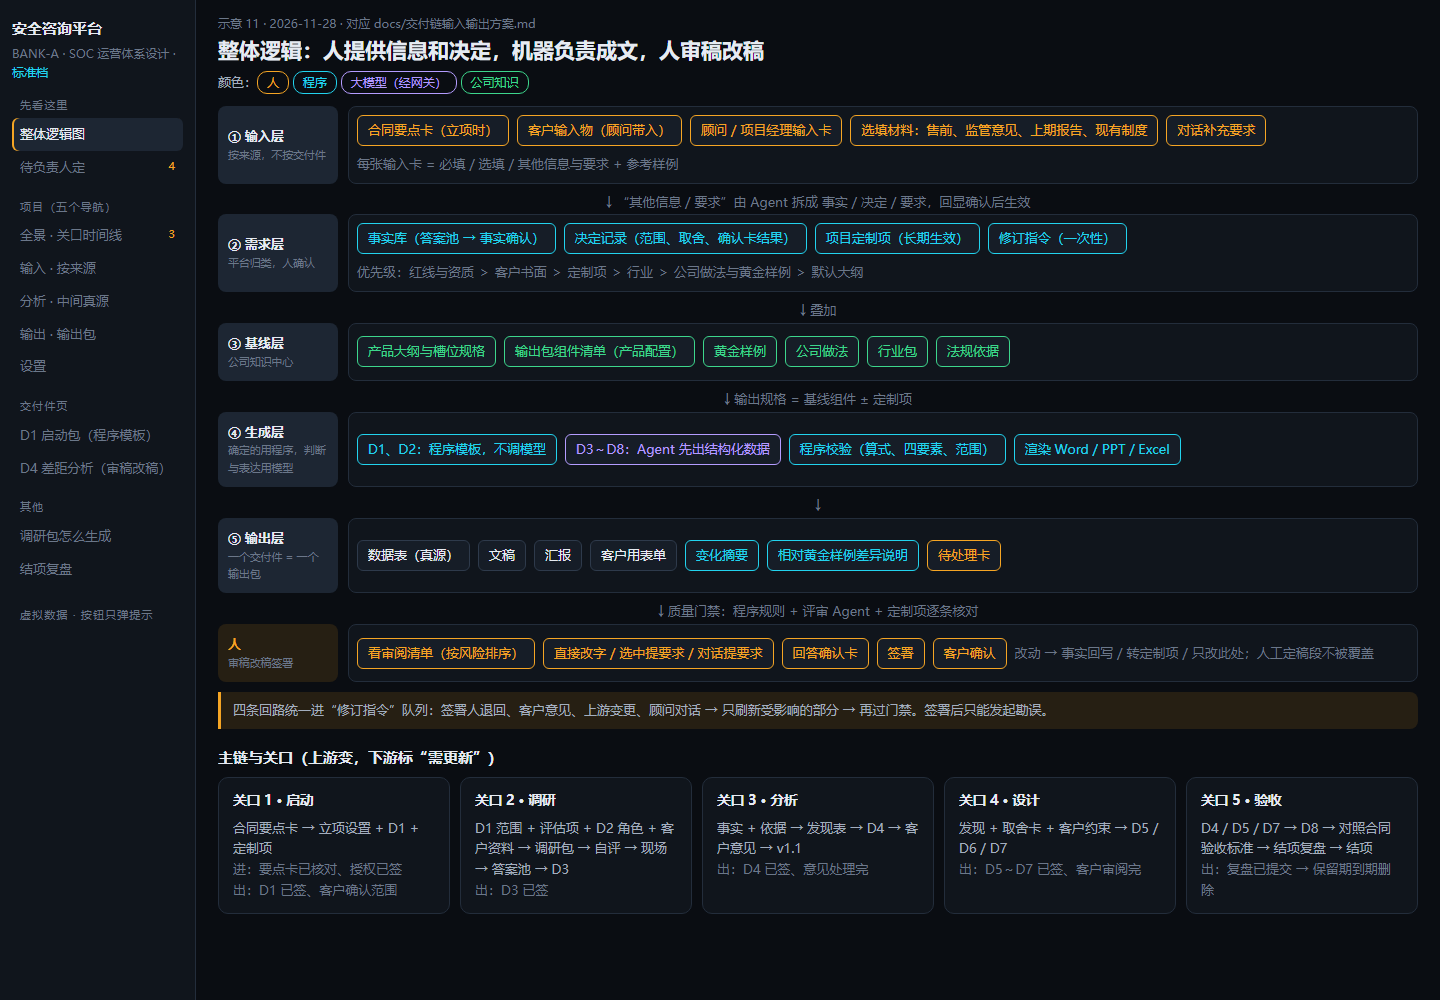
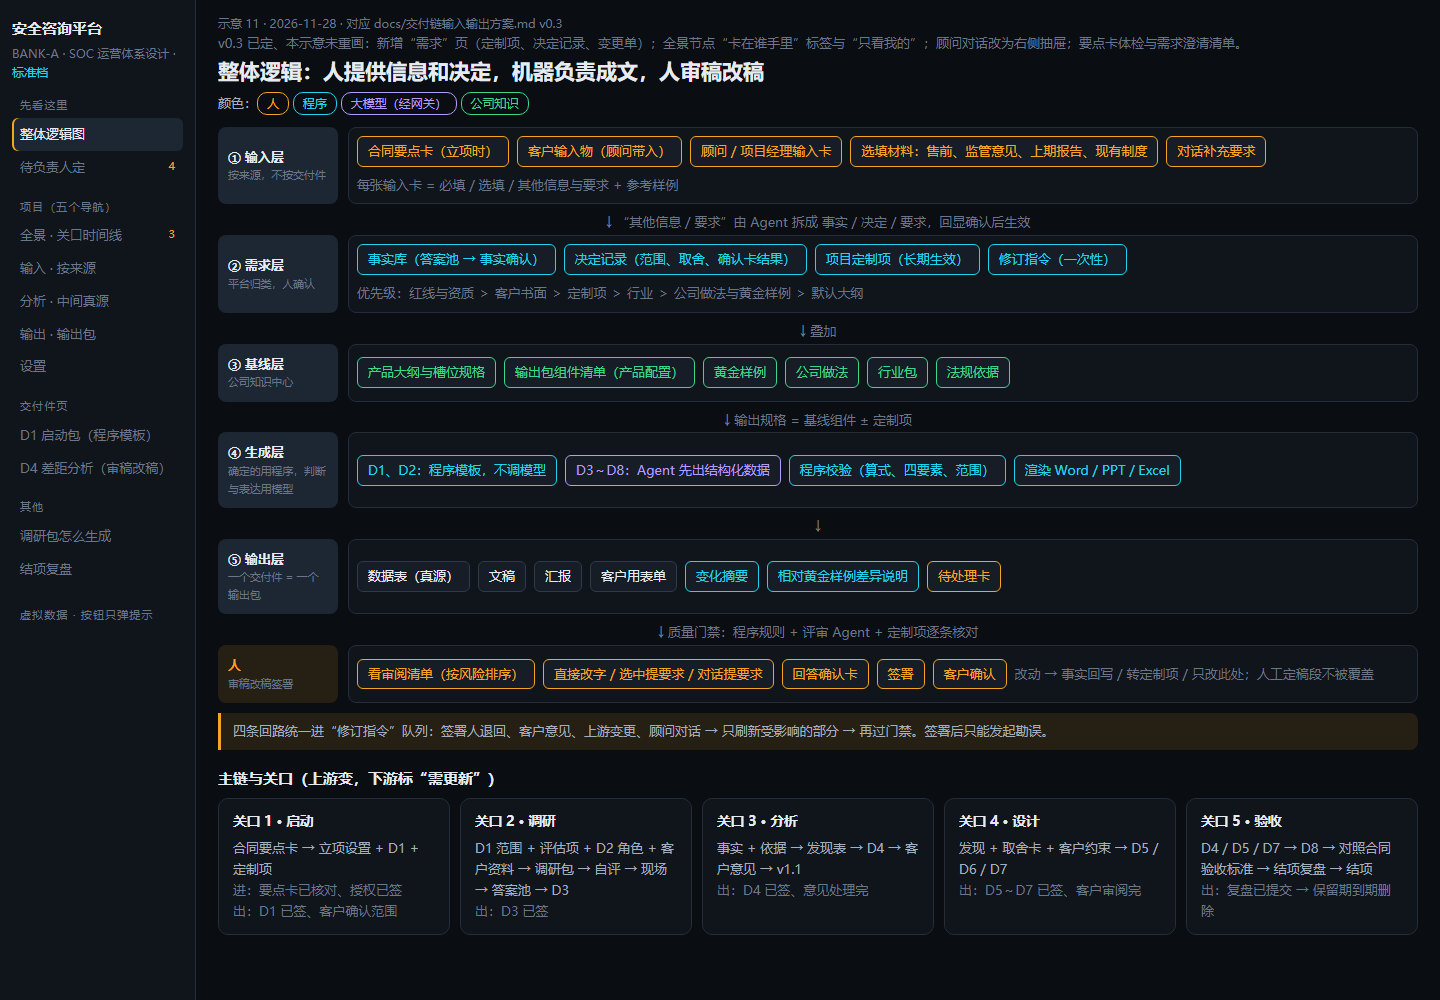
四期 设计：交付链输入输出方案 v0.3（第一轮审视十条写入正文）
负责人 11-28 对第一轮审视回复“同意”：要点卡字段状态、体检、需求澄清清单与变更单；新增需求页；分析页内容与证据/依据叫法；全景角色标签；顾问入口收敛；导出与水印；结项两步提交；客户批注导入、签字凭证、暂停终止、人员变动、续签、严格档输出包。示意 11 补导出与结项两步。

Changed region(s): [[0.125, 0.031, 1.0, 0.93]]

diff --git a/design/screens/11-驾驶舱与交付件刷新示意.html b/design/screens/11-驾驶舱与交付件刷新示意.html
@@ -102,7 +102,7 @@ textarea.inp{min-height:54px;resize:vertical}
 
 <!-- ============ 整体逻辑图 ============ -->
 <div class="page on" id="p-arch">
-  <div class="crumb">示意 11 · 2026-11-28 · 对应 docs/交付链输入输出方案.md</div>
+  <div class="crumb">示意 11 · 2026-11-28 · 对应 docs/交付链输入输出方案.md v0.3</div><div class="mut">v0.3 已定、本示意未重画：新增“需求”页（定制项、决定记录、变更单）；全景节点“卡在谁手里”标签与“只看我的”；顾问对话改为右侧抽屉；要点卡体检与需求澄清清单。</div>
   <h1>整体逻辑：人提供信息和决定，机器负责成文，人审稿改稿</h1>
   <div class="sub">颜色：<span class="chip c-am">人</span> <span class="chip c-cy">程序</span> <span class="chip c-vi">大模型（经网关）</span> <span class="chip c-ok">公司知识</span></div>
 
@@ -272,7 +272,7 @@ textarea.inp{min-height:54px;resize:vertical}
 
 <!-- ============ 输出 ============ -->
 <div class="page" id="p-out">
-  <div class="crumb">BANK-A / 输出</div><h1>输出 · 每个交付件是一个输出包</h1>
+  <div class="crumb">BANK-A / 输出</div><h1>输出 · 每个交付件是一个输出包</h1><div class="row" style="margin:6px 0 10px"><a class="btn2" data-t="按阶段打包导出全部组件；未签署带“草稿”水印">阶段包一键导出</a></div>
   <div class="sub">组件清单取自产品配置（按黄金样例定默认），定制项可增减（增删须项目经理确认）。图例：<span class="cmp d">数据表</span> <span class="cmp w">文稿</span> <span class="cmp p">汇报</span> <span class="cmp x">客户用表单</span></div>
   <div class="g4">
     <div class="card"><div class="sb"><h3>D1 启动包</h3><span class="chip c-ok">已签</span></div><div class="mut">程序模板</div><div class="pk"><span class="cmp w">范围确认单</span><span class="cmp d">计划与里程碑</span><span class="cmp p">启动会 PPT</span><span class="cmp d">定制项清单</span><span class="cmp x">资料需求初单</span><span class="cmp d">前提与风险</span></div><div class="row" style="margin-top:8px"><a class="btn2 sm" data-go="d1">打开</a></div></div>
@@ -298,7 +298,7 @@ textarea.inp{min-height:54px;resize:vertical}
 
 <!-- ============ D1 ============ -->
 <div class="page" id="p-d1">
-  <div class="crumb">BANK-A / 输出 / D1 启动包</div><h1>D1 启动包 · 程序模板</h1>
+  <div class="crumb">BANK-A / 输出 / D1 启动包</div><h1>D1 启动包 · 程序模板</h1><div class="row" style="margin:6px 0 10px"><a class="btn2" data-t="下载 Word（未签署带“草稿”水印）">导出 Word</a><a class="btn2" data-t="下载 PPT（未签署带“草稿”水印）">导出 PPT</a><a class="btn2" data-t="下载 Excel（未签署带“草稿”水印）">导出 Excel</a></div>
   <div class="sub">内容相对确定，不调模型：输入卡 → 程序按模板成稿 → 门禁 → 项目经理签 → 客户确认。资质边界、数据保护段由程序写死。</div>
   <div class="g2">
     <div class="card"><h2>输入（项目经理）</h2>
@@ -321,7 +321,7 @@ textarea.inp{min-height:54px;resize:vertical}
 
 <!-- ============ D4 审稿改稿 ============ -->
 <div class="page" id="p-d4">
-  <div class="top"><div><div class="crumb">BANK-A / 输出 / D4 差距分析 · 第 2 版 · 评审与修订</div><h1>D4 差距分析报告</h1></div>
+  <div class="top"><div><div class="crumb">BANK-A / 输出 / D4 差距分析 · 第 2 版 · 评审与修订</div><h1>D4 差距分析报告</h1><div class="mut">D2、D3、D5～D8 与结项复盘的交付件页同此结构</div><div class="row" style="margin:6px 0 10px"><a class="btn2" data-t="下载 Word（未签署带“草稿”水印）">导出 Word</a><a class="btn2" data-t="下载 PPT（未签署带“草稿”水印）">导出 PPT</a><a class="btn2" data-t="下载 Excel（未签署带“草稿”水印）">导出 Excel</a></div></div>
     <div style="margin-left:auto" class="row"><span class="chip c-am">草稿 · 待顾问审核</span><span class="chip c-cy">标准档</span><a class="btn2 sm" data-t="本次变化摘要：上一版后事实 F-047 定案为 5×8，第 3.2 节、热力图同步更新；新增定制项“偏监管视角”影响 4 处">本次变化摘要</a><a class="btn2 sm" data-t="差异说明：相对黄金样例（城商行 SOC）增 1 节（监管检查意见对照，来自定制项）、删 0、第 4 章因客户无 SOAR 缩短">相对黄金样例差异</a></div></div>
   <div class="dl">
     <div class="card"><div class="sb"><h3>审阅清单 · 按风险排序</h3><span class="mono mut">7</span></div>
@@ -400,7 +400,7 @@ textarea.inp{min-height:54px;resize:vertical}
       <tr><td>☑</td><td>城商行夜间值班“先外包后自建”取舍写法</td><td>公司做法</td><td>客户一次通过，无意见</td></tr>
       <tr><td>☑</td><td>D5 第 2 章（目标运营模型）</td><td>黄金样例提名</td><td>修改率最低、评审 0 问题</td></tr>
       <tr><td>☐</td><td>定制项“增加监管检查意见对照一节”</td><td>行业包候选</td><td>近 3 个银行项目都出现</td></tr></table>
-      <div class="row" style="margin-top:10px"><a class="btn" data-t="已交知识中心，专家认可后入库；复盘条目泛化防再识别">去标识预览并提交</a><a class="btn2" data-t="需写理由，计入跳过率">本项目无可沉淀</a></div>
+      <div class="row" style="margin-top:10px"><a class="btn2" data-t="逐条预览去标识后的候选，可修改、取消勾选；经验积累同意未签或已撤回时不可用">① 预览去标识结果</a><a class="btn" data-t="预览后可点：已交知识中心，专家认可后入库；去标识确认记审计">② 提交知识中心</a><a class="btn2" data-t="需写理由，计入跳过率">本项目无可沉淀</a></div><div class="mut" style="margin-top:6px">复盘提交后，到“设置 · 结项与删除”点结项（附核对清单）。</div>
       <div class="mut" style="margin-top:6px">合同勾选“不参与经验积累”时此栏关闭；严格档只按摘要卡生成候选。</div></div>
   </div>
 </div>

diff --git a/docs/交付链输入输出方案.md b/docs/交付链输入输出方案.md
@@ -1,7 +1,8 @@
 # 交付链输入输出方案（驾驶舱与交付件架构刷新）
 
-> 版本 v0.2（2026-11-28，草稿 · 待负责人审视）。来源：负责人与统筹 11-28 四轮讨论。
+> 版本 v0.3（2026-11-28，草稿 · 待负责人审视）。来源：负责人与统筹 11-28 四轮讨论。
 > v0.2 变更（负责人 11-28“同意”）：新增 4.6 授权与同意（授权台账、关口 1 进入条件）；D2 调研包只放输出页，输入页只放回收物（第五节、8.1）。第一轮审视的其他建议列入第十节第 5～9 项待定。
+> v0.3 变更（负责人 11-28 对第一轮十条审视回复“同意”）：第十节第 5～9 项转为已定并写入正文——4.1 字段状态、要点卡体检、需求澄清与变更单；8.1 新增“需求”页、分析页内容、全景角色标签、顾问入口收敛、导出；8.3 结项两步；新增 8.4 其他流程。
 > 示意：`design/screens/11-驾驶舱与交付件刷新示意.html`（虚拟数据，按钮只弹提示）。
 > 与现有文档的关系见第九节；负责人确认后再同步 `docs/驾驶舱改版方案.md`、`docs/总体规划.md` 并拆工作项。
 
@@ -20,7 +21,7 @@
 3. **先有数据，再有文档**：结构化数据是唯一真源，Word / PPT / Excel 都是它的视图，改一处三处同步。
 4. **黄金样例定基线，定制项定差异**：每份输出附“相对基线的差异说明”。
 5. **输入按来源组织**：合同、客户、顾问 / 项目经理、选填材料；每张输入卡 = 结构化字段 + 参考样例 + “其他信息 / 要求”。
-6. **驾驶舱每页只放一类东西**：全景 = 时间线；输入 = 输入物；分析 = 中间真源；输出 = 产出。
+6. **驾驶舱每页只放一类东西**：全景 = 时间线；输入 = 输入物；需求 = 定制项与决定；分析 = 事实与发现；输出 = 产出。
 
 ## 三、五层结构
 
@@ -53,6 +54,24 @@
 | 授权与同意（见 4.6） | 关口 1 进入条件、资料导入许可、结项沉淀许可 |
 | 客户书面要求、保密条款 | 项目定制项 |
 | 双方角色与对接人 | 成员、调研受访角色 |
+
+**字段状态**：每个要点标“已核对 / 合同未写明 / 待与客户澄清 / 合同外新增”。
+
+**要点卡体检**（程序规则为主，核对时提示，不阻断，资质边界一条除外）：
+- 资质边界：出现“等保测评结论、密评结论、认证结论”等字样，标“不可接受”，须改为差距分析、符合性初判口径后才能保存；
+- 验收标准能否逐条对照（不可量化的提示改写）；
+- 付款节点是否与验收节点绑定；
+- 周期是否短于同产品黄金样例的工期；
+- 交付件清单与产品默认组件是否一致；
+- 档位信号：客户属国有大行、电力生产控制区、政府涉密或敏感单位，合同却写标准档；
+- 保留期、返还与销毁条款是否与已签保密协议冲突。
+
+**合同不明确时怎么成稿**：“未写明 / 待澄清”字段自动生成**需求澄清清单**，每题附 2～3 个推荐选项（取自同产品黄金样例）和售前材料里的痛点，项目经理拿去开启动会或沟通会引导客户选择；会议纪要导入后由 Agent 拆成事实 / 决定 / 要求，回显确认；结论写进 D1 范围确认单，客户签字后固定。成稿不依赖合同写全。
+
+**在哪里调整**：
+- 合同要点卡只反映合同本身，只有补充协议才出新版本（旧版保留，下游标“需更新”）；
+- 客户需求的细化与变化进“需求”页（定制项、决定记录），每条标来源：客户书面 / 会议纪要 / 对话；
+- 超出合同范围的临时需求标“合同外”，生成**变更单**（影响哪些交付件、工期、组件），项目经理确认；涉及商务的提示走补充协议，补充协议签后才转为定制项。
 
 ### 4.2 客户：做什么、输入什么
 
@@ -170,13 +189,22 @@ D2 调研包由平台在**输出**页生成，是 D2 输出包的一部分；输
 
 | 页 | 放什么 |
 |---|---|
-| 全景 | 时间线：阶段 × 关口；每阶段同一结构“输入到齐 → 平台处理 → 人确认 → 产出 → 客户确认 → 过关口”；只显示缺什么输入、卡在谁手里；待我处理；已自动办完的折叠 |
+| 全景 | 时间线：横向 5 个关口进度条，当前阶段展开；每阶段同一结构“输入到齐 → 平台处理 → 人确认 → 产出 → 客户确认 → 过关口”，节点按颜色标状态；不做阶段 × 角色矩阵，卡住的节点挂“卡在谁手里”标签（项目经理 / 顾问 / 签署人 / 客户），顶部“只看我的”；待我处理；已自动办完的折叠 |
 | 输入 | 全部输入物，按来源分组：合同要点卡（含授权台账）/ 客户（资料、自评答卷）/ 现场答卷 / 顾问输入卡 / 选填材料；调研包不在此页，在输出页 D2 |
-| 分析 | 全部中间真源：事实、发现、决定记录、定制项（后两项新增） |
-| 输出 | D1～D8 输出包、阶段包、结项复盘；“需更新”提示 |
+| 需求 | 项目定制项、修订指令、决定记录、变更单；每条标来源与生效状态（新增页） |
+| 分析 | 事实（带证据）、发现（事实 + 依据 → 差距、影响、优先级）、证据缺口、待定矛盾；界面统一叫法：客户侧“证据”，规范侧“依据” |
+| 输出 | D1～D8 输出包、阶段包、结项复盘；“需更新”提示；阶段包一键导出 |
 | 设置 | 成员与写签分工、档位、保留期、结项与删除 |
-| 交付件页（挂在输出下） | 审阅清单 / 正文（修订痕迹、人工定稿标记）/ 改稿助手 / 差异说明 / 版本；四模式不变 |
-| 调研助手（全屏） | 现场：快速确认 → 议程 → 补问 → 回传 |
+| 交付件页（挂在输出下） | D1～D8 与结项复盘每个都有，结构相同（示意只画 D1 代表程序模板类、D4 代表审稿改稿类）：审阅清单 / 正文（修订痕迹、人工定稿标记）/ 改稿助手 / 差异说明 / 版本 / 导出；四模式不变 |
+| 调研助手（全屏，不进导航） | 现场：快速确认 → 议程 → 补问 → 回传；入口：输出页 D2、全景与“待我处理”的当天现场待办、我的项目中现场阶段的项目 |
+
+**导出**：交付件页输出包区每个组件可下载 Word / PPT / Excel，输出页阶段包一键导出；未签署带“草稿”水印，签署后出正式版（沿用导出约定）。D3～D8 不是 Agent 直出：结构化数据 → 程序校验渲染 → 质量门禁 → 人审稿、改稿、签署后才能出正式版。
+
+**顾问入口收敛**：
+- 一个对话入口：顾问对话改为驾驶舱右侧抽屉，在哪页打开就带哪页上下文，同一项目同一会话（独立的顾问对话屏保留给不进项目的问答）；
+- 一个待办入口：“待我处理”汇总确认卡、补资料卡、审阅清单、签署、变更单；
+- 就地改稿保留：直接改字、选中一段提要求；
+- 所有入口进来的要求进同一个修订指令 / 定制项队列，回显确认后生效。
 
 ### 8.2 主链与关口
 
@@ -190,11 +218,29 @@ D2 调研包由平台在**输出**页生成，是 D2 输出包的一部分；输
 
 依赖连线表示“上游变，下游标需更新”：合同要点卡 → 立项设置、D1、定制项；D1 + 产品评估项 + D2 + 客户资料 → 调研包 → 答案池 → 事实 → D3；事实 + 依据 → 发现 → D4；发现 + 取舍 + 约束 → D5 / D6 / D7；D4 / D5 / D7 → D8 → 验收 → 结项复盘 → 结项 → 保留期到期删除。定制项横贯全程。
 
+### 8.3 结项（两步提交，与结项分开）
+
+1. **预览去标识结果**：逐条看将交给知识中心的候选内容，可修改、取消勾选；经验积累同意未签或已撤回时，此步不可用，只能选“本项目无可沉淀”。
+2. **提交知识中心**：预览后才可点；确认去标识由项目经理担责，记审计。
+3. **本项目无可沉淀**：单独按钮，须写理由，计入跳过率。
+4. **结项**：复盘提交（或跳过）后，在设置页“结项与删除”点结项；结项前给核对清单（D1～D8 签署、验收标准逐条、客户确认凭证、未处理修订指令）。
+
+### 8.4 其他流程
+
+| 情形 | 处理 |
+|---|---|
+| 客户意见 | 客户不登录；顾问导入客户批注过的 Word，按批注自动拆条、对到章节，进修订指令队列 |
+| 客户签字凭证 | 范围确认单、验收单签字页回传只记“已签”状态、日期、页数和摘要哈希，不存正文；过 `guard` |
+| 项目暂停 / 终止 / 提前结项 | 暂停冻结关口与提醒；终止或提前结项写原因，跳到结项复盘（可跳过），随即生成删除计划 |
+| 人员变动 | 换人生成交接摘要（未完成待办、未签交付件）；重新校验写签分离 |
+| 续签项目 | 上一期数据按保留期已删，只能导入客户提供的上期报告（选填材料），不回读平台旧数据 |
+| 严格档输出包 | PPT / Excel 同样只用占位符；现场替换方式随“现场工具形态”待决定事项定 |
+
 ## 九、与现有设计的关系
 
 - **保留**：调研四渠道与答案池、自动化分工与验收指标（`docs/驾驶舱改版方案.md` 第五、七节）；定制项三入口与优先级（A30）；确认卡、发现表检查点、严格档规则；D1 / D2 程序成稿（A14、A28）；交付件四模式。
-- **调整**：五导航页按 8.1 重新划分内容（“分析”加决定记录与定制项；全景改为关口时间线）；合同导入前移到立项；交付件 = 输出包。
-- **新增**：合同要点卡、输出包组件清单、D3～D8 结构化输出、审阅清单与改动意图识别、人工定稿保护、结项复盘节点、选填材料入口。
+- **调整**：导航按 8.1 重新划分为全景、输入、需求、分析、输出、设置六页（新增“需求”页放定制项与决定记录；全景改为关口时间线）；合同导入前移到立项；交付件 = 输出包。
+- **新增**：合同要点卡、输出包组件清单、D3～D8 结构化输出、审阅清单与改动意图识别、人工定稿保护、结项复盘节点、选填材料入口、要点卡体检与需求澄清清单、变更单、授权台账、导出与水印、客户批注导入。
 
 ## 十、待负责人定
 
@@ -203,7 +249,7 @@ D2 调研包由平台在**输出**页生成，是 D2 输出包的一部分；输
 3. 驾驶舱按 8.1 重排，影响 11-25 驾驶舱改版方案与已合并的 A29～A31 界面。（建议：是，按 demo 审视后定）
 4. 结项复盘作为结项前置条件：必须进入，可一键“本项目无可沉淀”并写理由。（建议：是）
 
-第一轮审视提出、待定（建议均为是）：
+第一轮审视提出，负责人 11-28“同意”，已写入正文：
 
 5. 合同要点卡加字段状态（已核对 / 合同未写明 / 待澄清 / 合同外新增）与“要点卡体检”（资质边界字样、验收标准可量化、付款与验收绑定、工期对照黄金样例、档位信号、与保密协议冲突）；未写明项自动生成需求澄清清单，结果落 D1 范围确认单；合同外需求走变更单。
 6. 定制项与决定记录从“分析”挪到单独“需求”页；分析页放事实、发现、证据缺口与待定矛盾；界面统一“证据”（客户侧）与“依据”（规范侧）。
@@ -221,5 +267,8 @@ D2 调研包由平台在**输出**页生成，是 D2 输出包的一部分；输
 4. 改稿：审阅清单、改动意图识别、人工定稿保护（平台）。
 5. D4 / D5 结构化与固定段、D6 公文格式（平台 + Agent md）。
 6. 驾驶舱按 8.1 重排（前端）。
-7. 结项复盘节点（平台，接知识中心候选）。
+7. 结项复盘节点（平台，接知识中心候选），含两步提交与结项核对清单。
 8. D8 从真源取要点（平台 + Agent md）。
+9. 要点卡体检、需求澄清清单与变更单（平台；体检规则线 2 起草）。
+10. 顾问对话抽屉与“待我处理”汇总（前端 + 平台）。
+11. 客户批注 Word 导入、签字凭证、暂停 / 终止流程（平台）。
